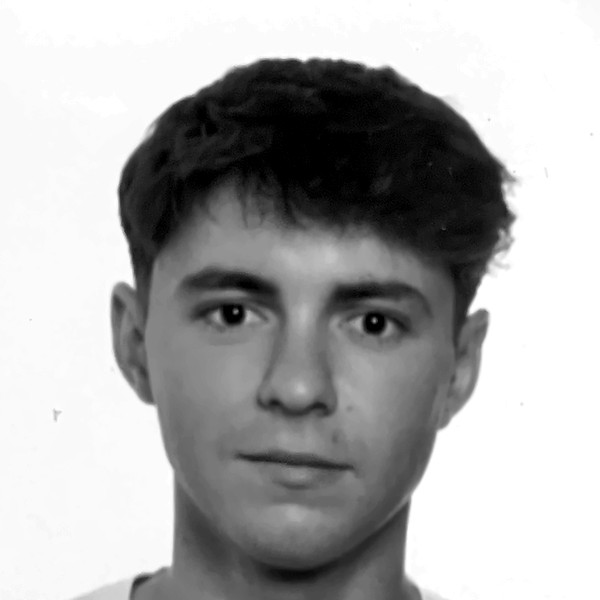
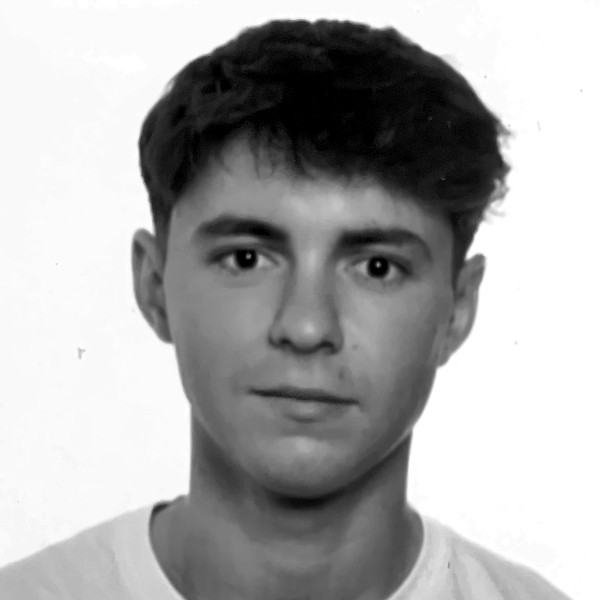
Añade retrato de Jon y reencuadra el de Ibai con hombros
Claude-Session: https://claude.ai/code/session_016g1Nu6Z9TFJoytB2N3cPjP

diff --git a/index.html b/index.html
@@ -509,7 +509,7 @@ chk()})();
       <div style="display:grid;grid-template-columns:repeat(auto-fit,minmax(min(100%,220px),1fr));gap:clamp(28px,3.4vw,52px) clamp(18px,2.4vw,36px);padding-top:clamp(8px,1.6vw,20px)">
         <div class="suxtr-rise" style="display:flex;flex-direction:column;align-items:center;text-align:center;gap:6px">
           <div style="width:min(100%,210px);aspect-ratio:1/1;border-radius:50%;overflow:hidden;background:#d9d9d9;margin-bottom:14px;box-shadow:0 0 0 1px #d6d6d6;transition:transform .35s cubic-bezier(.16,.84,.28,1),box-shadow .35s ease" style-hover="transform:scale(1.04);box-shadow:0 0 0 3px #2f9be0">
-            <span style="width:100%;height:100%;display:flex;align-items:center;justify-content:center;background:#d9d9d9;color:#9aa0a6;font-family:'Inter Tight',Helvetica,Arial,sans-serif;font-size:clamp(34px,4vw,52px);letter-spacing:-.02em" aria-hidden="true">JM</span>
+            <img src="assets/equipo-jon.jpg" alt="Retrato de Jon Medina" loading="lazy" style="display:block;width:100%;height:100%;object-fit:cover;filter:grayscale(1)" />
           </div>
           <h3 style="margin:0;font-size:20px;font-weight:600;letter-spacing:-.015em">Jon Medina</h3>
           <span style="font-family:'Inter Tight',Helvetica,Arial,sans-serif;font-size:11.5px;letter-spacing:.12em;text-transform:uppercase;color:#737b85">Cofundador</span>
